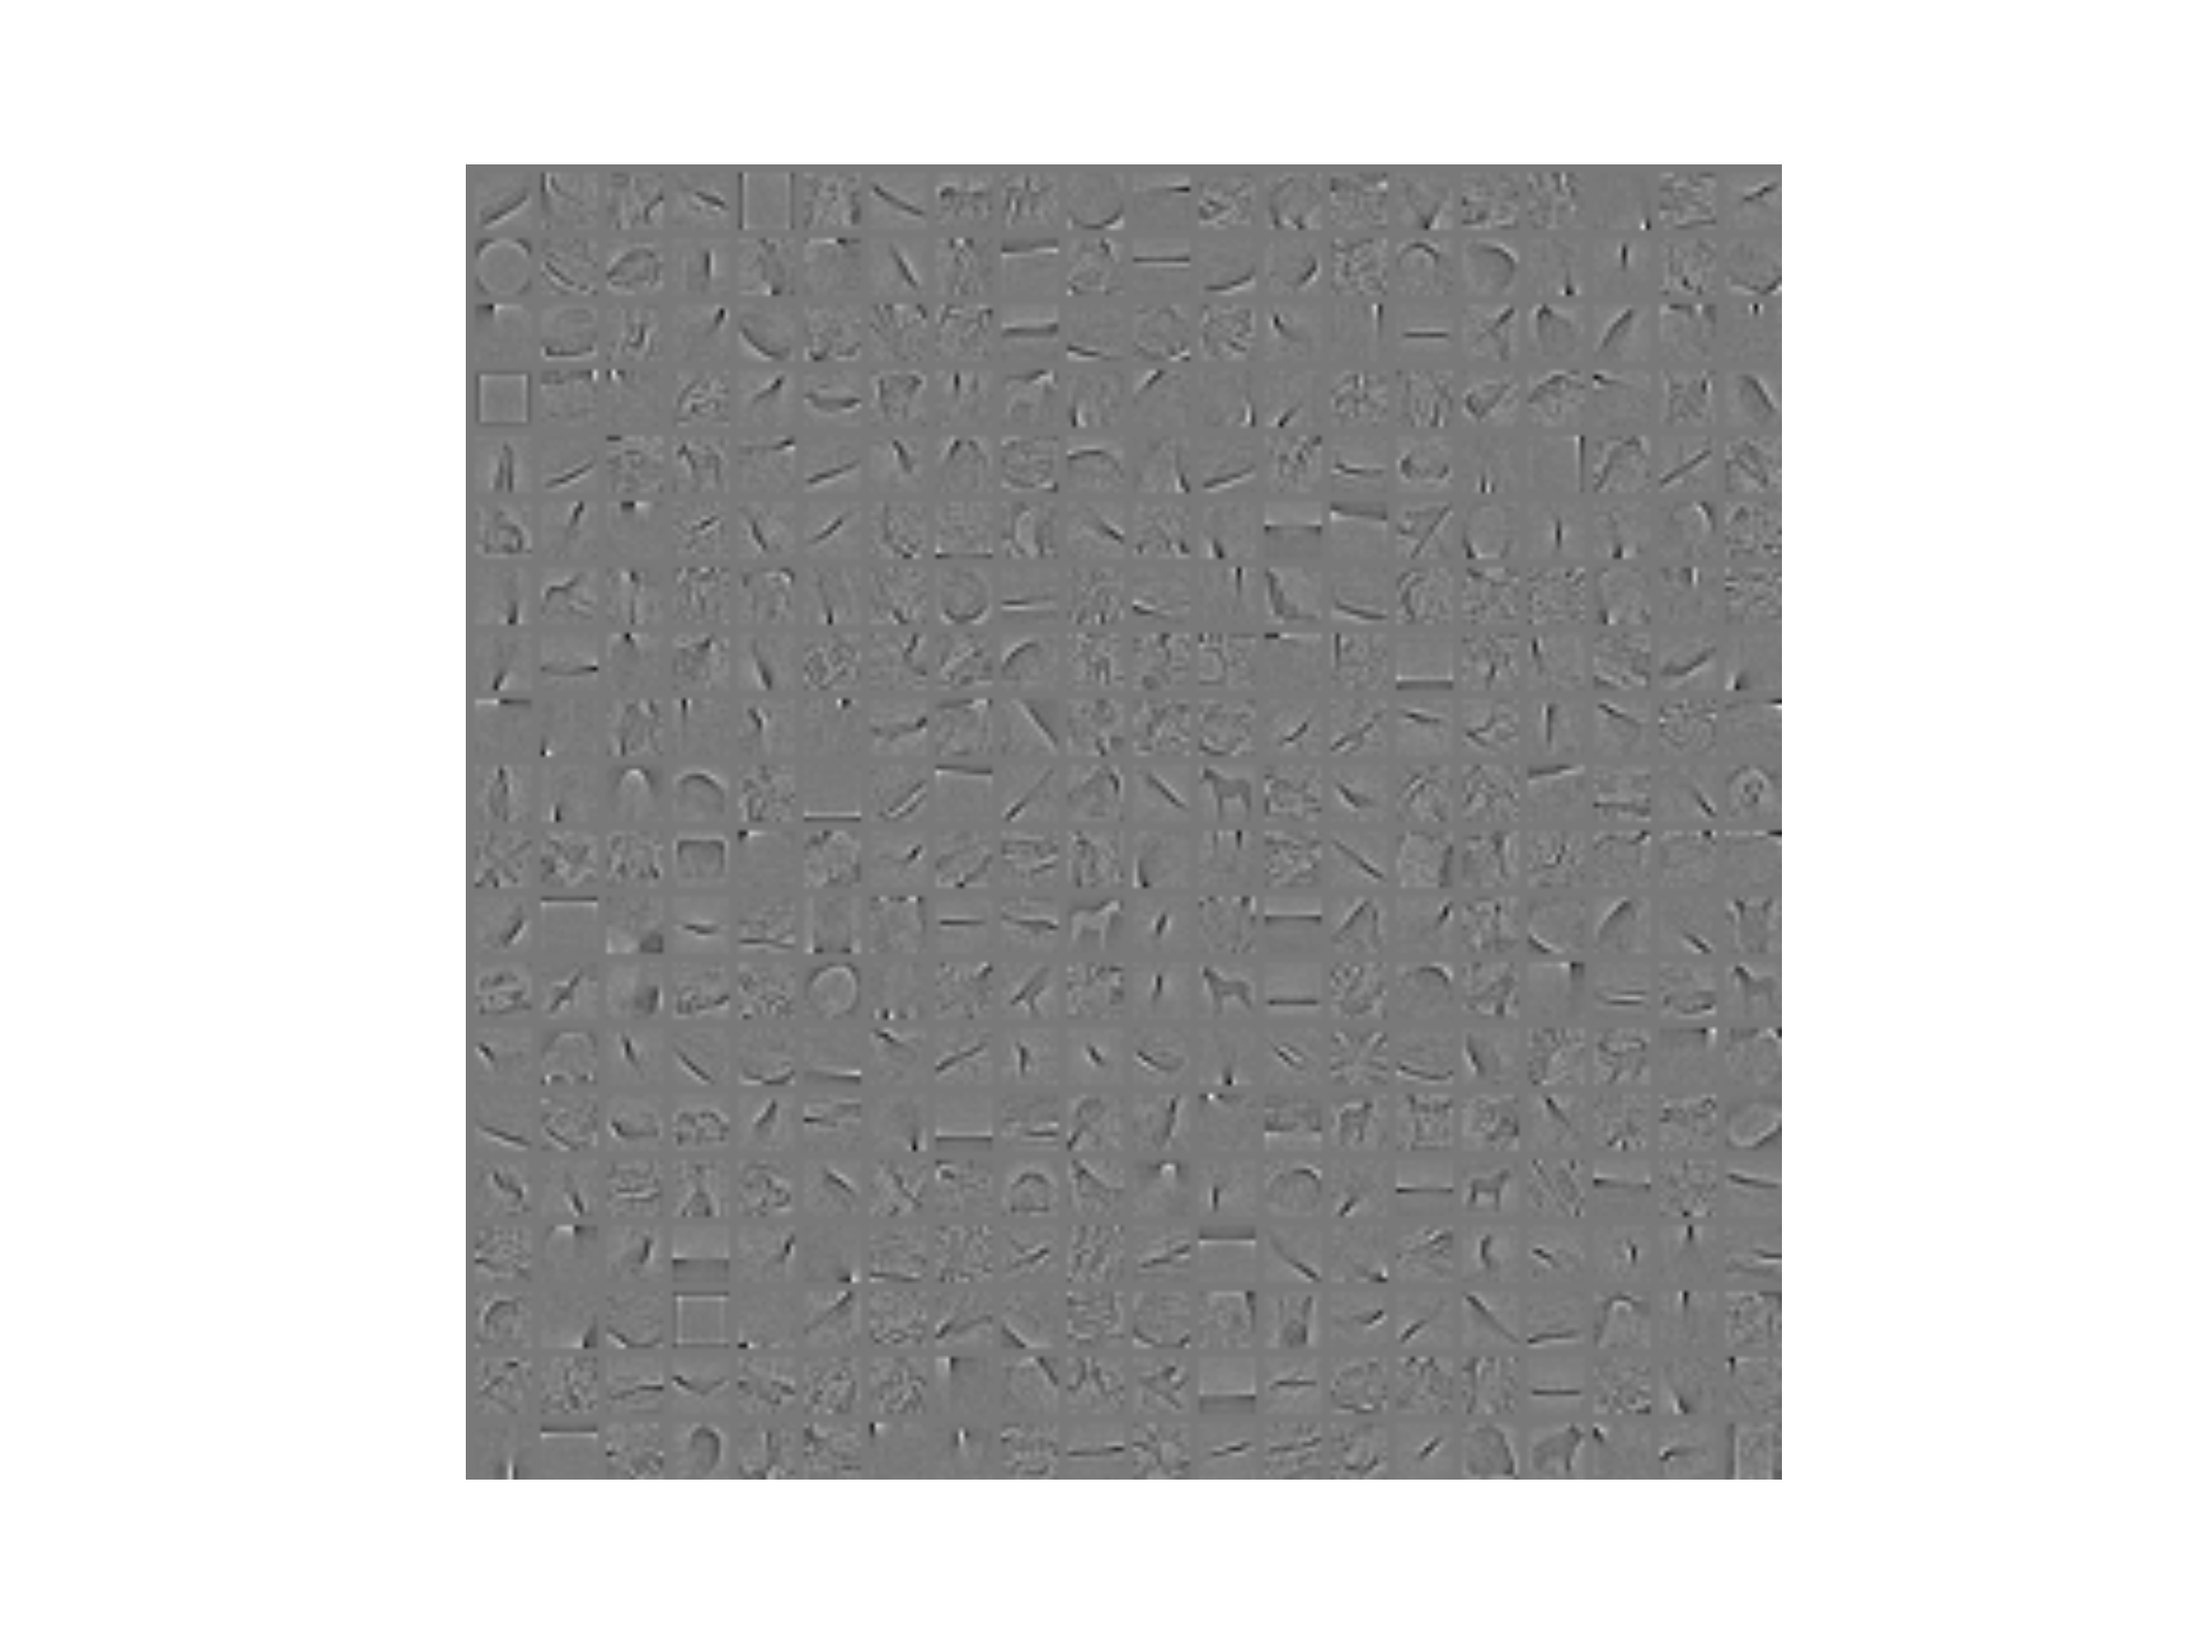
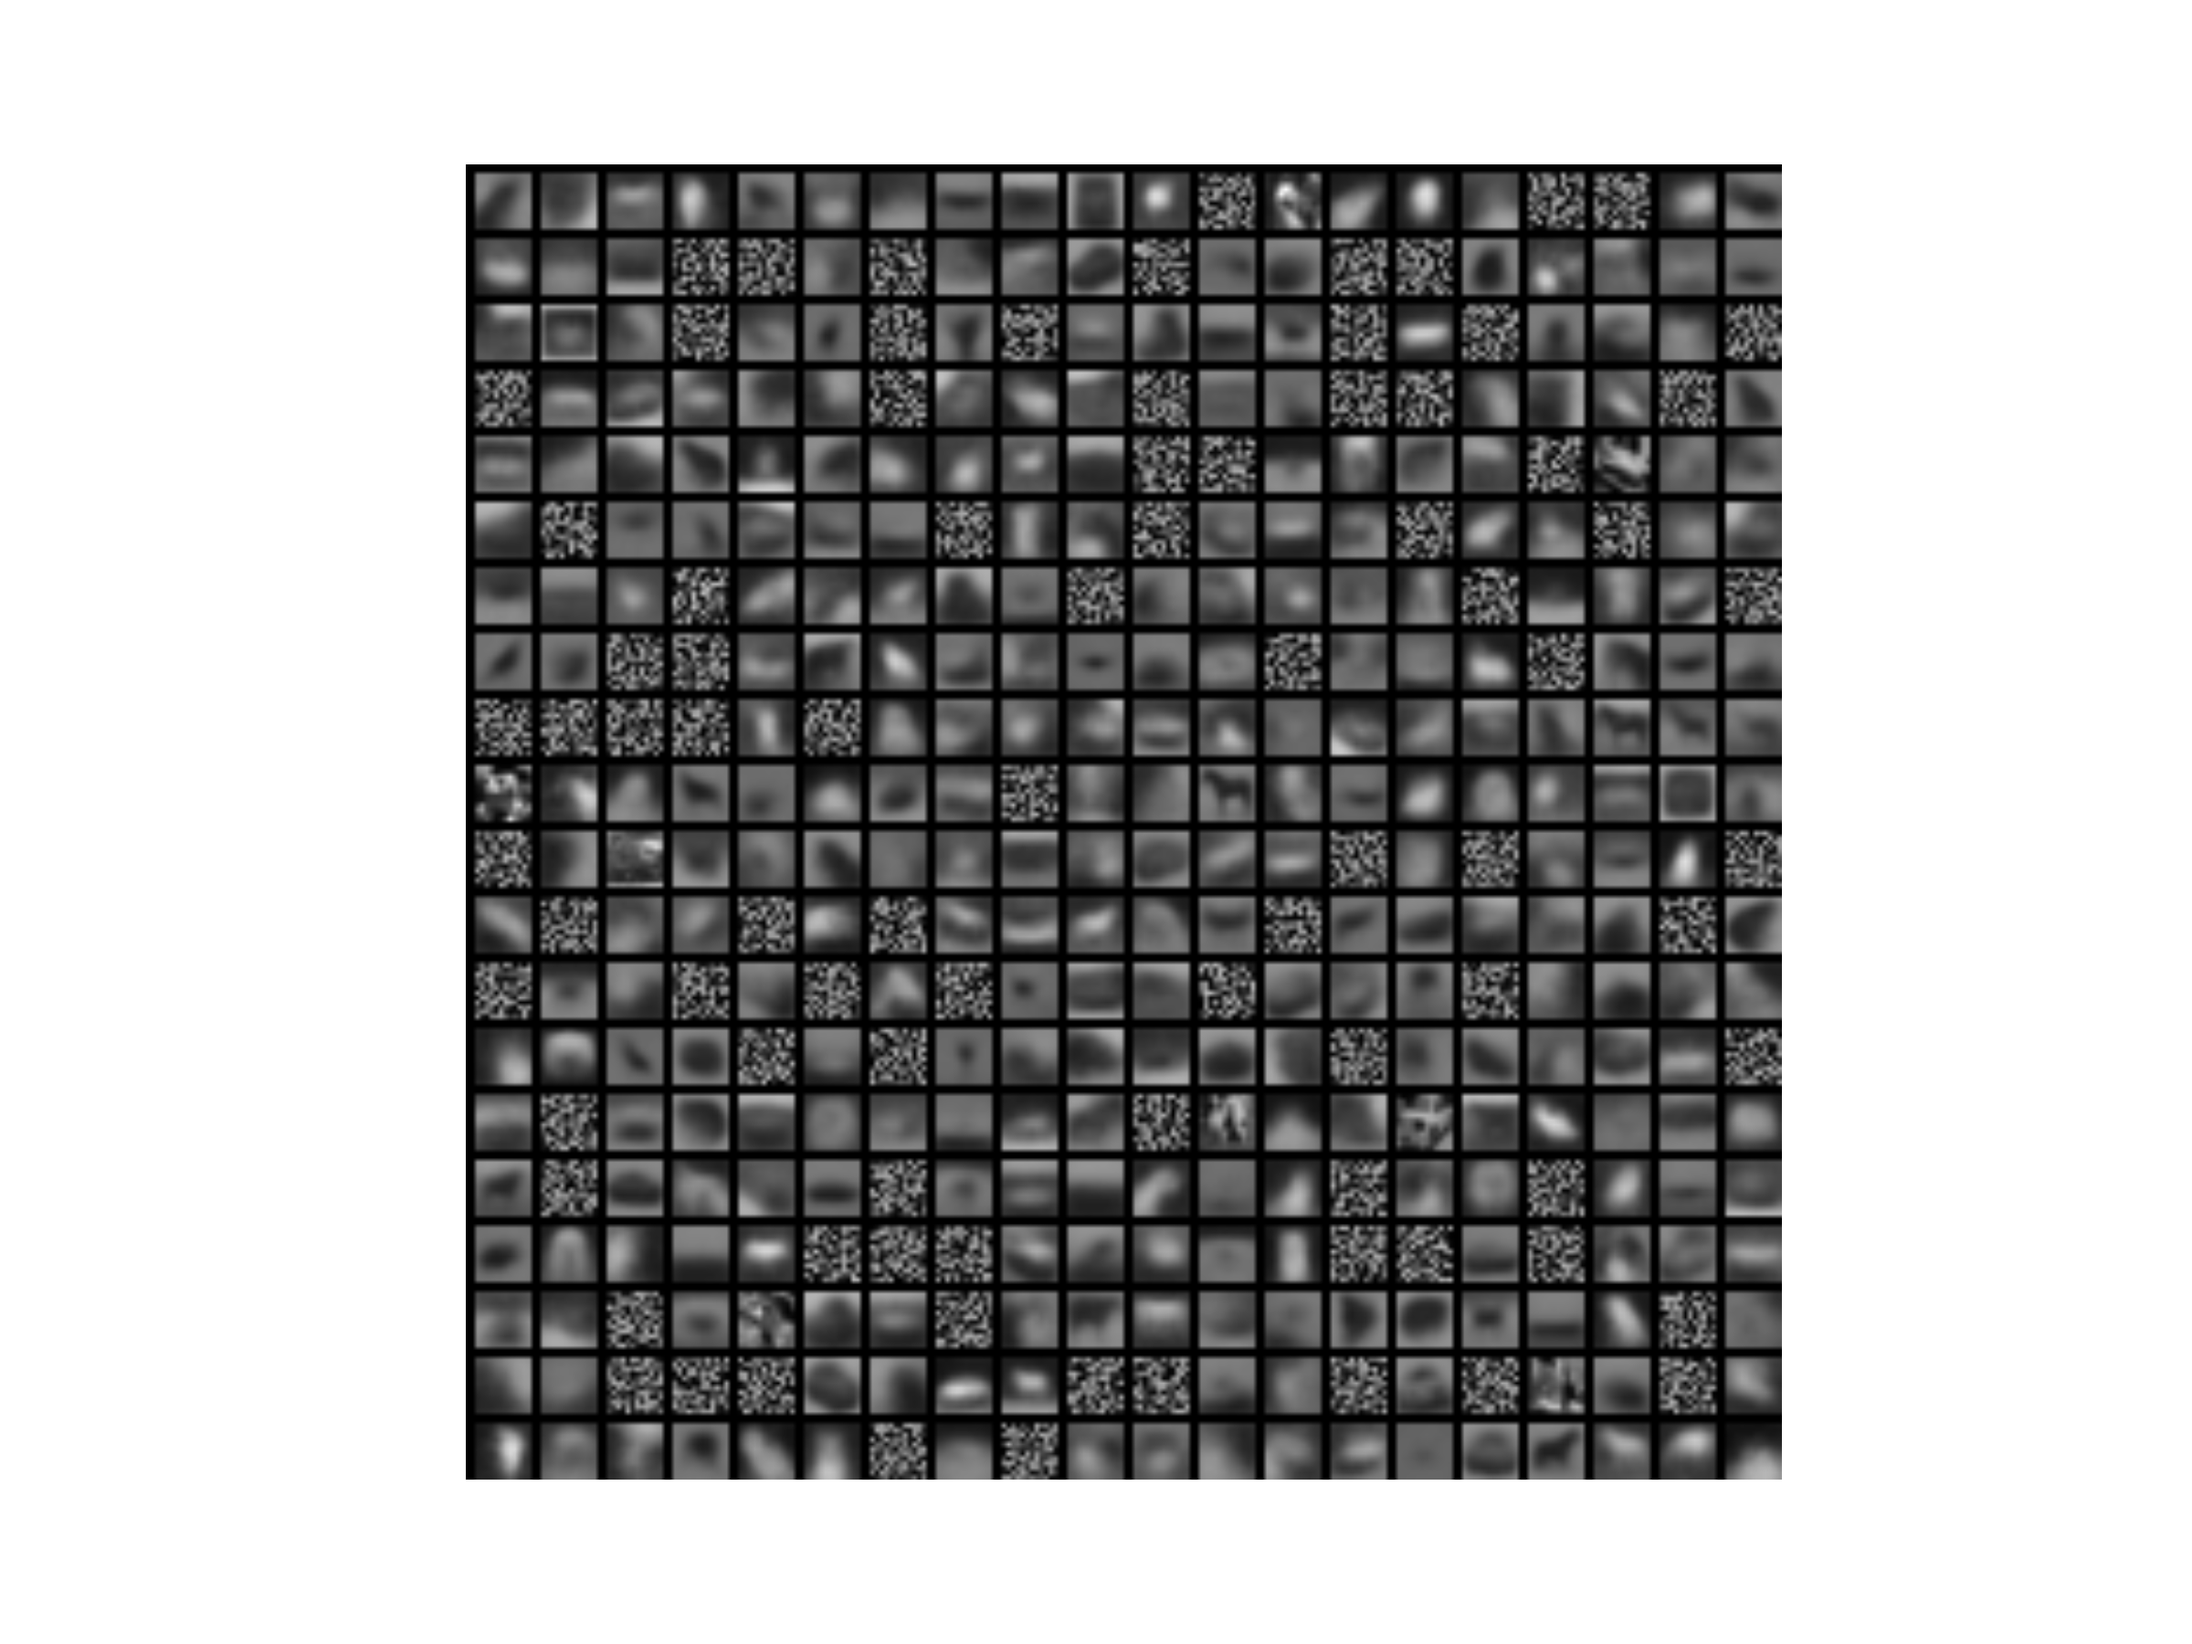
* KMeans and Autoencoder update

diff --git a/kmeans/kmeans.py b/kmeans/kmeans.py
@@ -15,11 +15,6 @@ def normalize_dict(D):
     D /= lengths
     return D
 
-def norm_dict(D):
-    lengths = tensor.sqrt(tensor.sum(D ** 2, axis=0))
-    D /= lengths
-    return D
-
 class KMeansPreprocessing(object):
     def __init__(self, x, dim, eps_var=10, eps_whiten=0.01):
         self.x = x
@@ -41,7 +36,6 @@ class KMeansPreprocessing(object):
         self.x_whiten = tensor.dot(self.x_normalized, self.step_between)
 
 class KMeansCoates(object):
-    # already whitened x needed for KMeans
     def __init__(self, x, dim, centers, batch_size, numpy_rng):
         self.x = x
         self.dim = dim
@@ -64,13 +58,10 @@ class KMeansCoates(object):
 
         self.S = tensor.dot(self.x, self.D)
 
-        indices = tensor.eye(self.centers)[tensor.argmax(self.S, axis=1)]
-        self.S = tensor.switch(indices, self.S, tensor.zeros_like(self.S))
-
         self.update = tensor.dot(self.x.T, self.S)
 
-        self.D = norm_dict(self.D + self.update)
-
+    def return_result(self):
+        return self.S, self.x
 
 def problem_31(values, rows, cols, height, width, name="repflds.png"):
     border = 2
@@ -103,25 +94,41 @@ def train(trainx, trainy, name, n_center):
         outputs=preprocessing.x_whiten
     )
 
+    x_whiten = preprocessing_model(X_train)
+
     train_model = theano.function(
         inputs=[x],
-        outputs=(kmeans.D, kmeans.S),
+        outputs=kmeans.return_result(),
     )
-    x_whiten = preprocessing_model(X_train)
+
+    s = tensor.matrix('s')
+    calculate_update = theano.function(
+        inputs=[x, s],
+        outputs=tensor.dot(x.T, s),
+    )
 
     for k in range(10):
         print "run ", k
-        D, S = train_model(x_whiten)
+        S, x = train_model(X_train)
+
+        # set argmax value only
+        sprime = numpy.zeros((X_train.shape[0], n_center))
+        argmax_k = numpy.argmax(numpy.abs(S), axis=1)
+        for i in xrange(X_train.shape[0]):
+            sprime[i, argmax_k[i]] =  1
+        S *= sprime
+
+        kmeans.D.set_value(normalize_dict(kmeans.D.get_value() + calculate_update(x, S)))
+
 
         # reinitialize empty clusters
         step = numpy.sum(S.T, axis=0)
         for i in range(n_center):
             if step[i] == 0:
                 idx = numpy.random.randint(X_train.shape[1])
-                tensor.set_subtensor(kmeans.D[:, i], kmeans.x[idx])
+                kmeans.D[:, i].set_value(x[idx])
 
-    problem_31(D, int(numpy.sqrt(n_center)), int(numpy.sqrt(n_center)), 12, 12)
-
+    problem_31(kmeans.D.get_value(), int(numpy.sqrt(n_center)), int(numpy.sqrt(n_center)), 12, 12)
 
 
 if __name__ == '__main__':

diff --git a/latent/auto_encoder.py b/latent/auto_encoder.py
@@ -270,10 +270,9 @@ if __name__ == '__main__':
     train_data, valid_data, test_data = utils.loadMinstDataSet(current_dir + "../mnist.pkl.gz")
     trainx, trainy = train_data
 
-    for n in [784, 400, 225, 100]:
-        for k in [0.05, 0.1, 0.2]:
-            train(trainx, nhidden=n, sparsity=True, lambda_param=k)
-            #train_climin(trainx, nhidden=n, sparsity=True, lambda_param=k)
+    for n in [100, 225, 400, 784, 1024]:
+        for k in [0.05, 0.2, 1]:
+    		train_climin(trainx, nhidden=n, sparsity=True, lambda_param=k)
 
     train_climin(trainx, optimizer="rmsprop", sparsity=False, lambda_param=0)
     train(trainx, sparsity=False, lambda_param=0)
